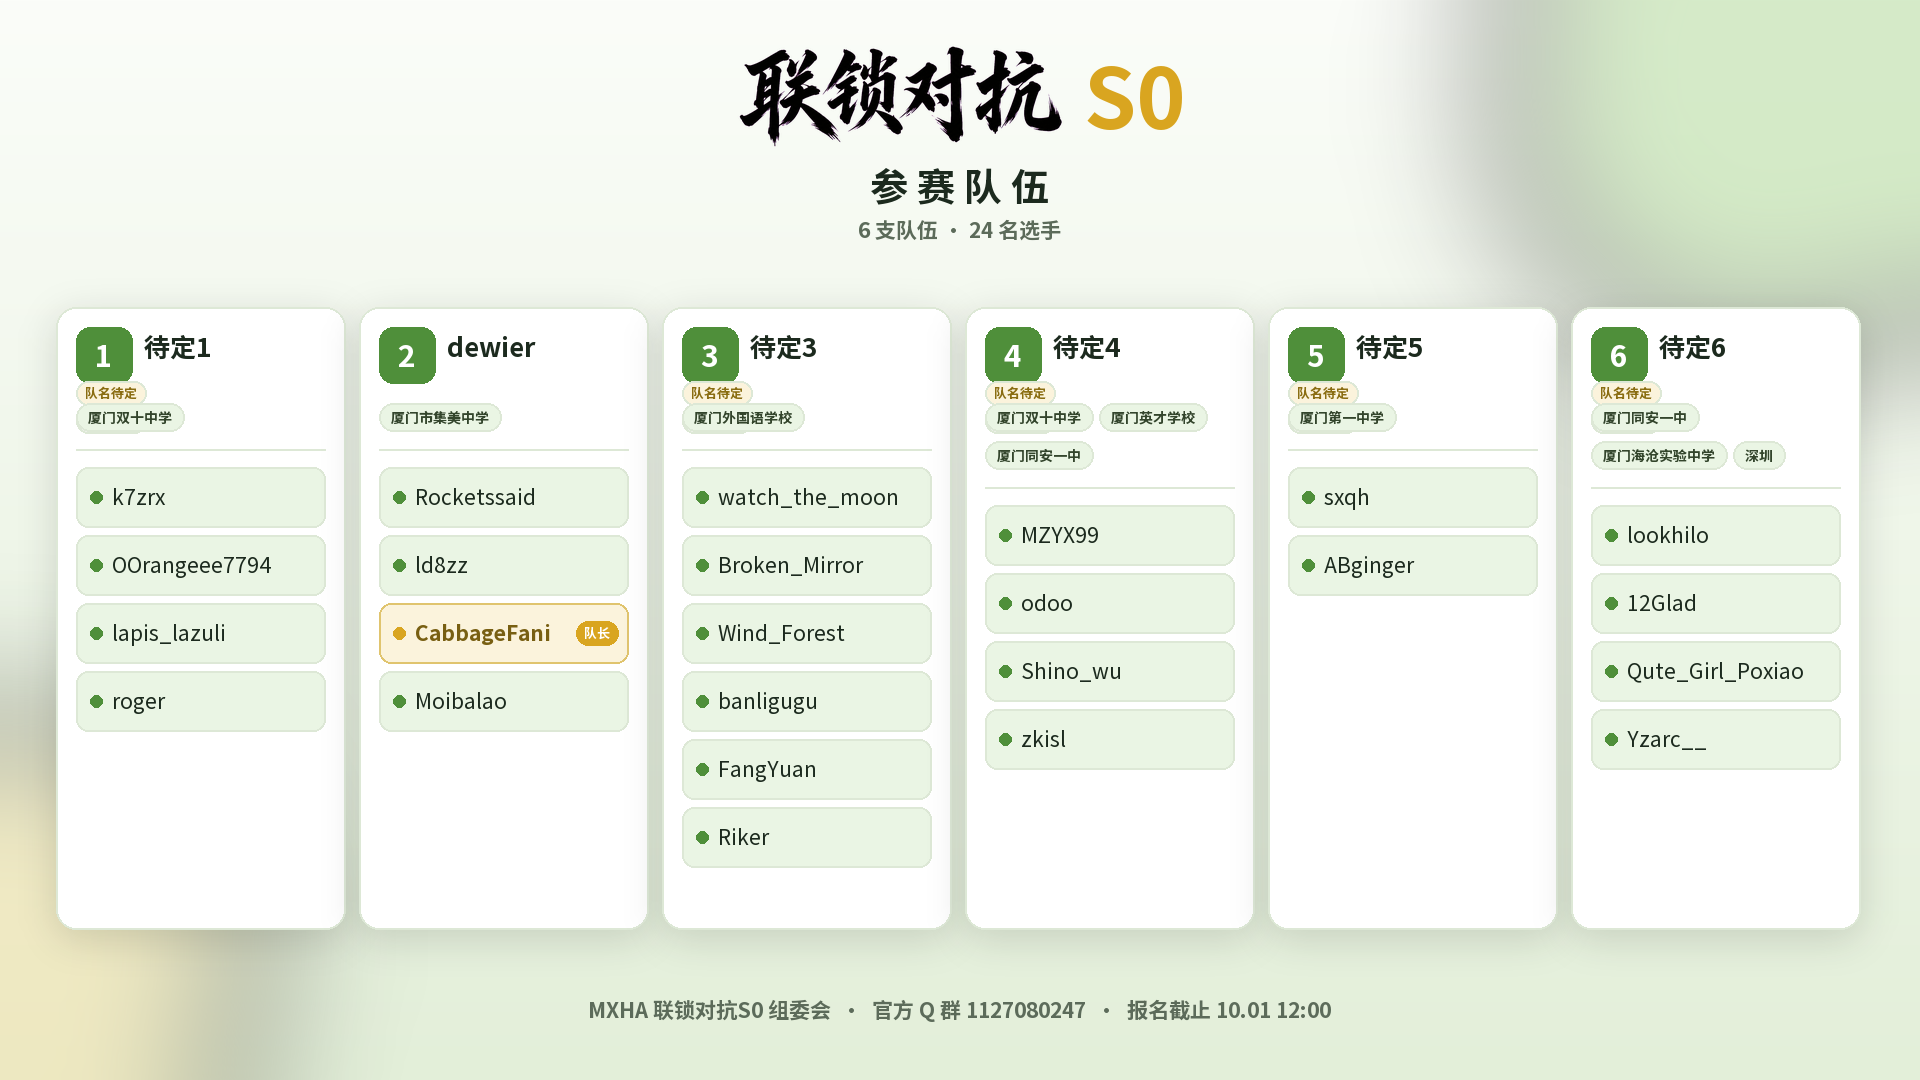
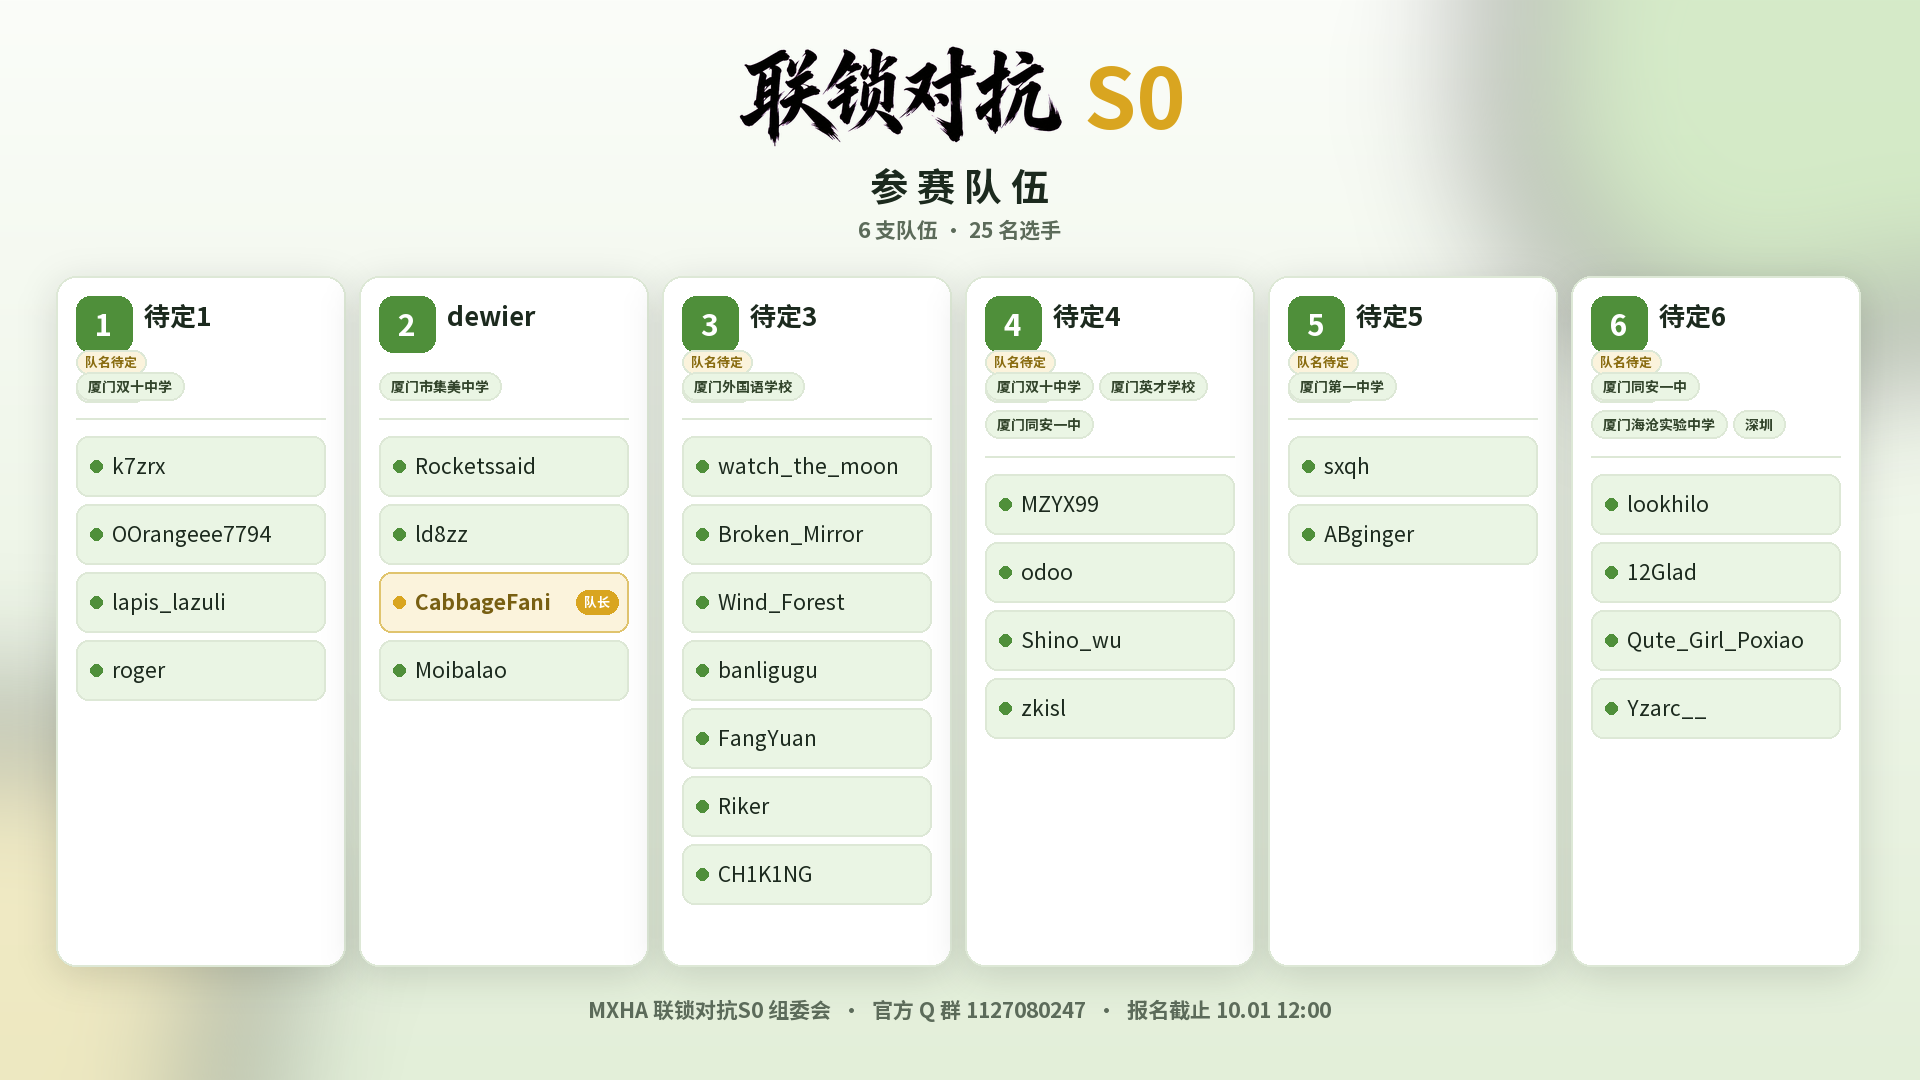
新增CH1K1NG至待定3，同步网站与队伍海报(v21)

Changed region(s): [[0.0312, 0.2444, 0.9688, 0.9167]]

diff --git a/index.html b/index.html
@@ -6,7 +6,7 @@
 <meta name="description" content="联锁对抗S0 · 厦门多校联合 Minecraft 竞技赛｜四大项目 · 积分赛制｜2026.10.03–10.04">
 <title>联锁对抗S0 · 厦门多校联合 Minecraft 竞技赛</title>
 <link rel="icon" href="assets/海报-圆形版.png">
-<link rel="stylesheet" href="styles.css?v=20">
+<link rel="stylesheet" href="styles.css?v=21">
 </head>
 <body>
 
@@ -120,7 +120,7 @@
     <div class="team-preview">
       <a class="tmini" href="teams.html"><span class="tmini-head"><span class="tmini-num">1</span><span class="tmini-name">待定1</span></span><span class="tmini-meta">4 人 · 厦门双十中学</span></a>
       <a class="tmini" href="teams.html"><span class="tmini-head"><span class="tmini-num">2</span><span class="tmini-name">dewier</span></span><span class="tmini-meta">4 人 · 厦门市集美中学</span></a>
-      <a class="tmini" href="teams.html"><span class="tmini-head"><span class="tmini-num">3</span><span class="tmini-name">待定3</span></span><span class="tmini-meta">6 人 · 厦门外国语学校</span></a>
+      <a class="tmini" href="teams.html"><span class="tmini-head"><span class="tmini-num">3</span><span class="tmini-name">待定3</span></span><span class="tmini-meta">7 人 · 厦门外国语学校</span></a>
       <a class="tmini" href="teams.html"><span class="tmini-head"><span class="tmini-num">4</span><span class="tmini-name">待定4</span></span><span class="tmini-meta">4 人 · 厦门双十中学 / 厦门英才学校 / 厦门同安一中</span></a>
       <a class="tmini" href="teams.html"><span class="tmini-head"><span class="tmini-num">5</span><span class="tmini-name">待定5</span></span><span class="tmini-meta">2 人 · 厦门第一中学</span></a>
       <a class="tmini" href="teams.html"><span class="tmini-head"><span class="tmini-num">6</span><span class="tmini-name">待定6</span></span><span class="tmini-meta">4 人 · 厦门同安一中 / 厦门海沧实验中学 / 深圳</span></a>
@@ -209,8 +209,8 @@
   </div>
 </footer>
 
-<script src="app.js?v=20"></script>
-<script src="data/teams.js?v=20"></script>
+<script src="app.js?v=21"></script>
+<script src="data/teams.js?v=21"></script>
 <script>
 (function () {
   'use strict';

diff --git a/teams.html b/teams.html
@@ -6,7 +6,7 @@
 <meta name="description" content="联锁对抗S0 · 参赛队伍总览">
 <title>参赛队伍 · 联锁对抗S0</title>
 <link rel="icon" href="assets/海报-圆形版.png">
-<link rel="stylesheet" href="styles.css?v=20">
+<link rel="stylesheet" href="styles.css?v=21">
 </head>
 <body>
 
@@ -51,7 +51,7 @@
         <tbody>
           <tr><td>1</td><td>待定1</td><td>厦门双十中学</td><td>k7zrx、OOrangeee7794、lapis_lazuli、roger（队长待定）</td></tr>
           <tr><td>2</td><td>dewier</td><td>厦门市集美中学</td><td>Rocketssaid、ld8zz、CabbageFani（队长）、Moibalao</td></tr>
-          <tr><td>3</td><td>待定3</td><td>厦门外国语学校</td><td>watch_the_moon、Broken_Mirror、Wind_Forest、banligugu、FangYuan、Riker（队长待定）</td></tr>
+          <tr><td>3</td><td>待定3</td><td>厦门外国语学校</td><td>watch_the_moon、Broken_Mirror、Wind_Forest、banligugu、FangYuan、Riker、CH1K1NG（队长待定）</td></tr>
           <tr><td>4</td><td>待定4</td><td>厦门双十中学 / 厦门英才学校 / 厦门同安一中</td><td>MZYX99、odoo、Shino_wu、zkisl（队长待定）</td></tr>
           <tr><td>5</td><td>待定5</td><td>厦门第一中学</td><td>sxqh、ABginger（队长待定）</td></tr>
           <tr><td>6</td><td>待定6</td><td>厦门同安一中 / 厦门海沧实验中学 / 深圳</td><td>lookhilo、12Glad、Qute_Girl_Poxiao、Yzarc__（队长待定）</td></tr>
@@ -79,8 +79,8 @@
   </div>
 </footer>
 
-<script src="app.js?v=20"></script>
-<script src="data/teams.js?v=20"></script>
+<script src="app.js?v=21"></script>
+<script src="data/teams.js?v=21"></script>
 <script>
 (function () {
   'use strict';

diff --git a/projects/frostbite.html b/projects/frostbite.html
@@ -6,7 +6,7 @@
 <meta name="description" content="联锁对抗S0 · 霜冻狂潮 游戏机制与比赛配置">
 <title>霜冻狂潮 · 联锁对抗S0</title>
 <link rel="icon" href="../assets/海报-圆形版.png">
-<link rel="stylesheet" href="../styles.css?v=20">
+<link rel="stylesheet" href="../styles.css?v=21">
 </head>
 <body class="detail-page bg-frostbite">
 <a class="skip" href="#main">跳到内容</a>
@@ -65,6 +65,6 @@
   </div>
 </footer>
 
-<script src="../app.js?v=20"></script>
+<script src="../app.js?v=21"></script>
 </body>
 </html>

diff --git a/projects/bedwars.html b/projects/bedwars.html
@@ -6,7 +6,7 @@
 <meta name="description" content="联锁对抗S0 · 起床战争 游戏机制与比赛配置">
 <title>起床战争 · 联锁对抗S0</title>
 <link rel="icon" href="../assets/海报-圆形版.png">
-<link rel="stylesheet" href="../styles.css?v=20">
+<link rel="stylesheet" href="../styles.css?v=21">
 </head>
 <body class="detail-page bg-bedwars">
 <a class="skip" href="#main">跳到内容</a>
@@ -63,6 +63,6 @@
   </div>
 </footer>
 
-<script src="../app.js?v=20"></script>
+<script src="../app.js?v=21"></script>
 </body>
 </html>

diff --git a/schedule.html b/schedule.html
@@ -6,7 +6,7 @@
 <meta name="description" content="联锁对抗S0 · 赛程安排">
 <title>赛程安排 · 联锁对抗S0</title>
 <link rel="icon" href="assets/海报-圆形版.png">
-<link rel="stylesheet" href="styles.css?v=20">
+<link rel="stylesheet" href="styles.css?v=21">
 </head>
 <body>
 
@@ -80,8 +80,8 @@
   </div>
 </footer>
 
-<script src="app.js?v=20"></script>
-<script src="data/schedule.js?v=20"></script>
+<script src="app.js?v=21"></script>
+<script src="data/schedule.js?v=21"></script>
 <script>
 (function () {
   'use strict';

diff --git a/projects/desert.html b/projects/desert.html
@@ -6,7 +6,7 @@
 <meta name="description" content="联锁对抗S0 · 荒芜沙漠 游戏机制与比赛配置">
 <title>荒芜沙漠 · 联锁对抗S0</title>
 <link rel="icon" href="../assets/海报-圆形版.png">
-<link rel="stylesheet" href="../styles.css?v=20">
+<link rel="stylesheet" href="../styles.css?v=21">
 </head>
 <body class="detail-page bg-desert">
 <a class="skip" href="#main">跳到内容</a>
@@ -66,6 +66,6 @@
   </div>
 </footer>
 
-<script src="../app.js?v=20"></script>
+<script src="../app.js?v=21"></script>
 </body>
 </html>

diff --git a/projects/siege.html b/projects/siege.html
@@ -6,7 +6,7 @@
 <meta name="description" content="联锁对抗S0 · 空岛围攻 游戏机制与比赛配置">
 <title>空岛围攻 · 联锁对抗S0</title>
 <link rel="icon" href="../assets/海报-圆形版.png">
-<link rel="stylesheet" href="../styles.css?v=20">
+<link rel="stylesheet" href="../styles.css?v=21">
 </head>
 <body class="detail-page bg-siege">
 <a class="skip" href="#main">跳到内容</a>
@@ -66,6 +66,6 @@
   </div>
 </footer>
 
-<script src="../app.js?v=20"></script>
+<script src="../app.js?v=21"></script>
 </body>
 </html>

diff --git a/rules.html b/rules.html
@@ -6,7 +6,7 @@
 <meta name="description" content="联锁对抗S0 · 赛制与积分规则">
 <title>赛制与积分 · 联锁对抗S0</title>
 <link rel="icon" href="assets/海报-圆形版.png">
-<link rel="stylesheet" href="styles.css?v=20">
+<link rel="stylesheet" href="styles.css?v=21">
 </head>
 <body>
 
@@ -101,6 +101,6 @@
   </div>
 </footer>
 
-<script src="app.js?v=20"></script>
+<script src="app.js?v=21"></script>
 </body>
 </html>

diff --git a/projects.html b/projects.html
@@ -6,7 +6,7 @@
 <meta name="description" content="联锁对抗S0 · 四大比赛项目">
 <title>比赛项目 · 联锁对抗S0</title>
 <link rel="icon" href="assets/海报-圆形版.png">
-<link rel="stylesheet" href="styles.css?v=20">
+<link rel="stylesheet" href="styles.css?v=21">
 </head>
 <body>
 
@@ -108,6 +108,6 @@
   </div>
 </footer>
 
-<script src="app.js?v=20"></script>
+<script src="app.js?v=21"></script>
 </body>
 </html>

diff --git a/data/teams.js b/data/teams.js
@@ -75,6 +75,9 @@ window.LSF_TEAMS = {
         },
         {
           "mcid": "Riker"
+        },
+        {
+          "mcid": "CH1K1NG"
         }
       ]
     },
